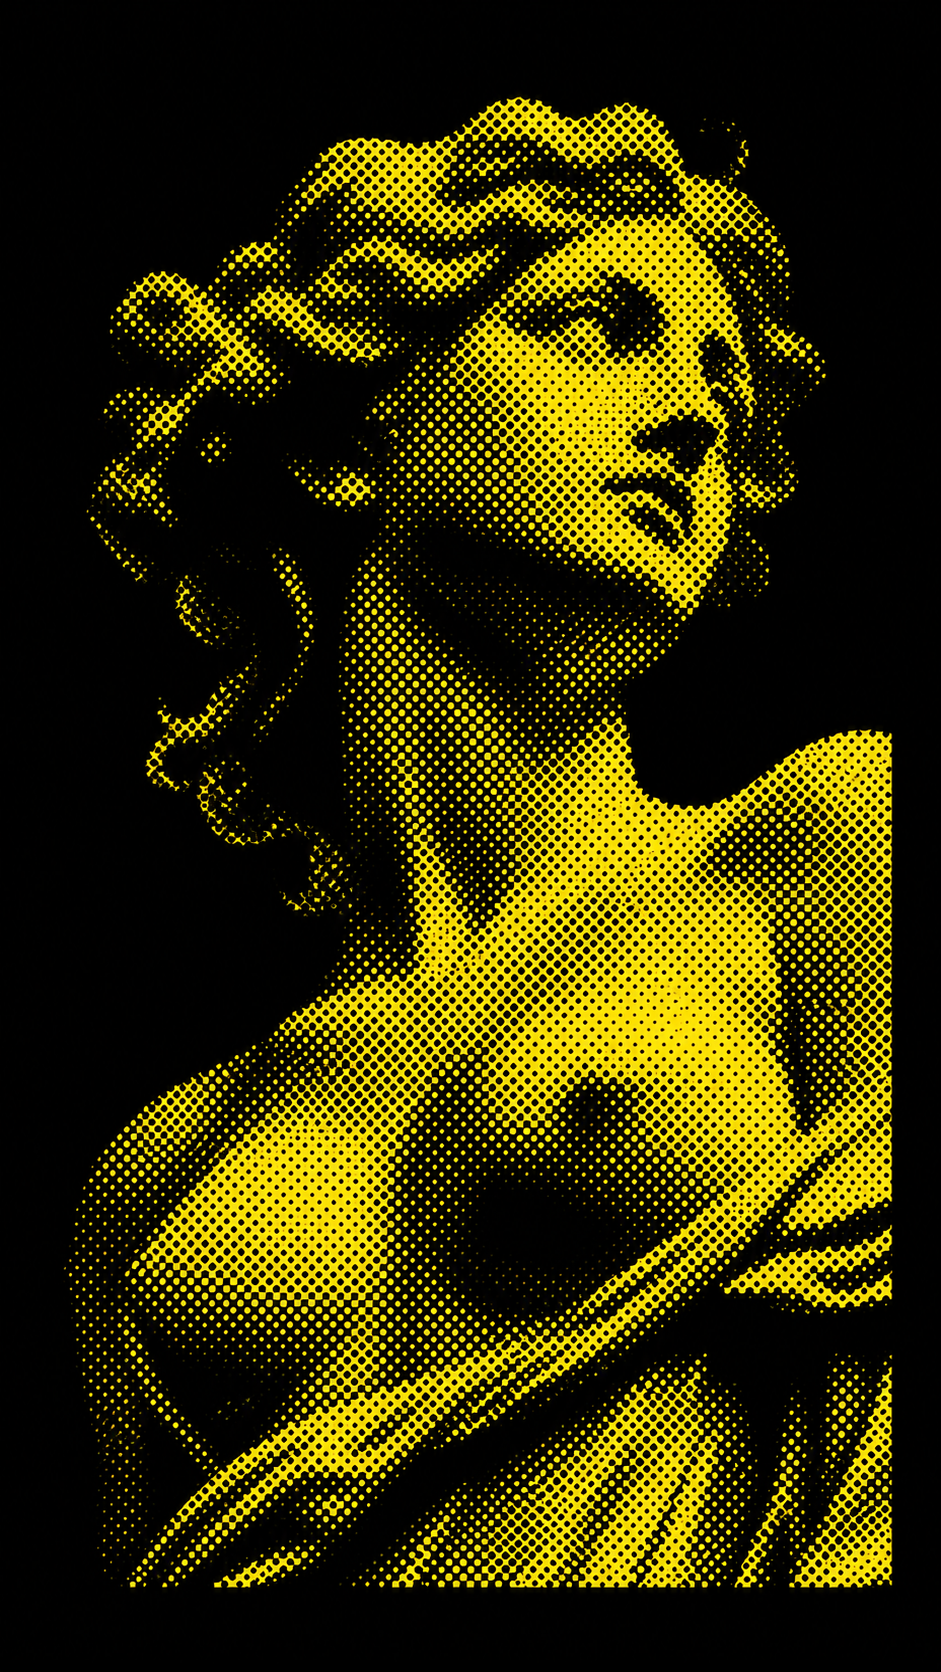
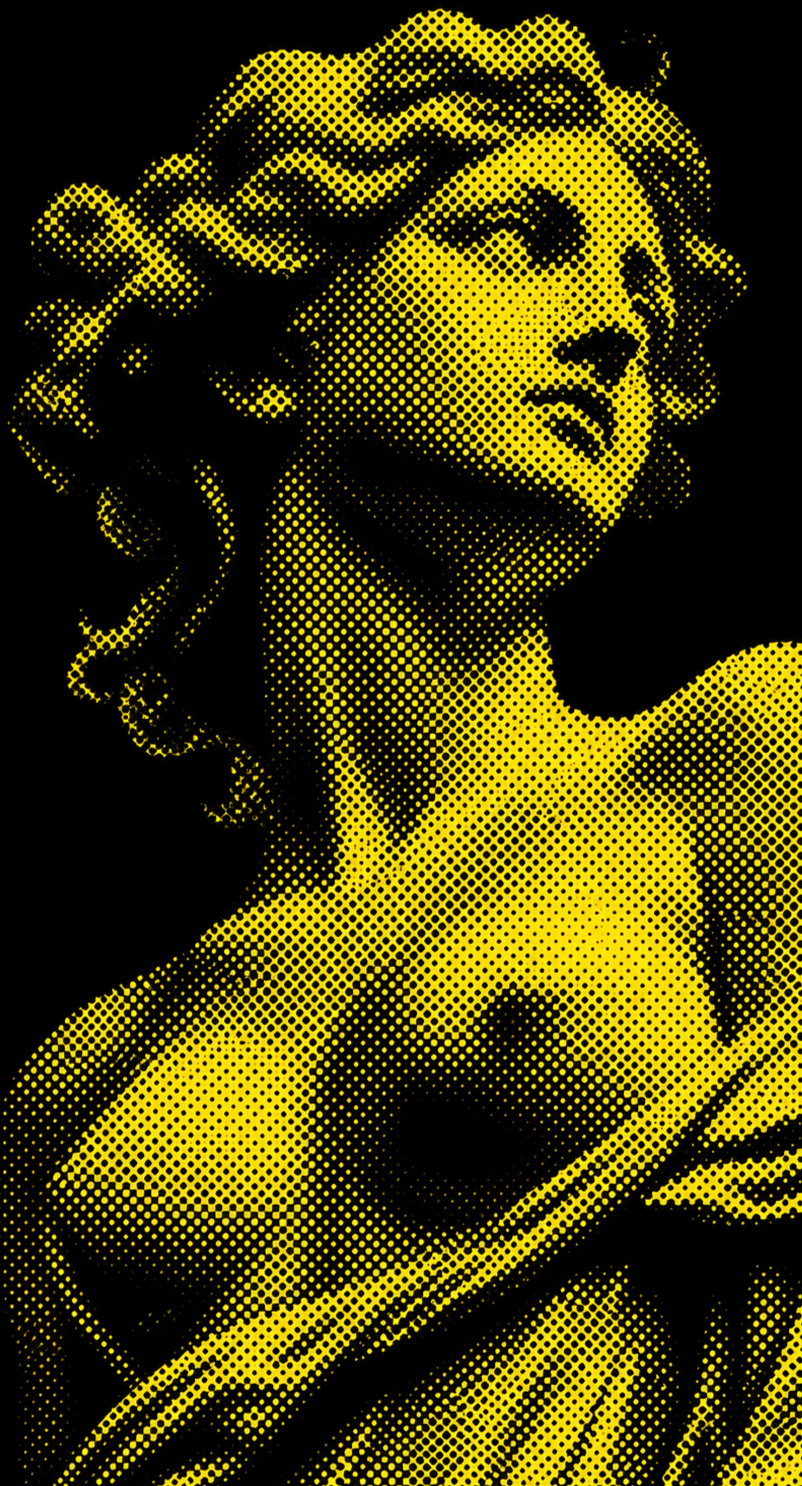
fixed line4 postioning, and other elemts adaptibiltiy to different screeens, use two section for first n secodn screen

diff --git a/style.css b/style.css
@@ -3,6 +3,7 @@ body {
     font-family: "JetBrains", monospace;
     background: #000000;
     
+    overflow-x: hidden;
     
     
 
@@ -11,8 +12,8 @@ body {
 main {
     position:relative;
     width: 100%;
-    min-height: 850px;
-    overflow: hidden;
+    
+    
     
 }
 
@@ -22,16 +23,28 @@ main {
     display: flex;
     flex-direction: row;
     gap:20px;
-    position: absolute;
-    left:20px;
-    top:35px;
+    width: fit-content;
     font-family: inherit;
     font-weight: 600;
-    z-index: 100;
+}
+   
+.first_screen {
+    position: relative;
+    width: 100%;
+    height: 100vh;
+    box-sizing: border-box;
+}
+
+.second_screen {
+    position: relative;
+    width: 100%;
+    min-height: 30vh;
+    box-sizing: border-box;
+}
     
     
 
-}
+
 .nav a{
     color:#FCEF3D;
     text-decoration: none;
@@ -42,10 +55,53 @@ main {
     color:#F15784
 }
 
+.quote {
+    position: absolute;
+    top:0vh;
+    left:50%;
+
+    
+    
+    
+    
+    
+    
+    color:#FCEF3D;
+    
+    font-size:1.2rem;
+    border-bottom: 0.15rem solid #FCEF3D;
+    width:fit-content;
+   
+    height: fit-content;
+    transform:translateX(-50%);
+    
+    
+
+    
+    
+}
+
+.socials {
+    position:absolute;
+    top:1vh;
+    right:1vw;
+    
+    
+    
+    width:fit-content;
+
+    
+    display:flex;
+    gap:1.1rem;
+    
+
+}
 
 
 .intro1 {
-    padding-left:20vw;
+    padding-left:29vw;
+    padding-top: 19vh;
+    
     
 
 
@@ -69,12 +125,6 @@ main {
     gap:5vh;
     
 
-    
-
-    
-    
-    
-    
 }
 .iam{
     font-size: 2rem;
@@ -101,7 +151,7 @@ main {
     color:#FCEF3D;
     font-size: 4rem;
     font-weight: 800;
-    line-height: 0.5;
+    line-height: 0.2;
    
 
 }
@@ -150,30 +200,34 @@ main {
     left:10px;
     top: 41%;
     
-    
+}
+.girl {
+    overflow: hidden;
+    position:absolute;
+    right: 0;
+    width: 30%;
+    height: 165vh;
+    bottom:0;
 }
 .hpgirl {
-    position:absolute;
-    right: -40px;
-    width: 400px;
-    height: auto;
-    top:190px;
-    visibility: hidden;
     
-
-
-
+    position:absolute;
+    bottom:0vh;
+    width: 100%;
+    
 }
 
 
 
 .line4{ 
-    position: absolute;
+    
     background-color: #FCEF3D;
     width:50%;
     height: 2px;
+    position:absolute;
     left:10px;
-    top: 73%;
+    bottom:0vh;
+    
 }
 
 .me-arrow {
@@ -220,20 +274,20 @@ main {
 .larp {
     position:absolute;
     color:#FCEF3D;
-    font-size: 17px;
-    bottom:145px;
+    font-size: 1rem;
+    top:1vh;
     left:10px;
     display: inline-block;
-    width: 850px;
+    width: 45%;
 }
 
 
 .og {
     position: absolute;
-    width: 150px;
+    width: 10%;
     height: auto;
 
-    bottom:0px;
+    top:10vh;
     left:50px;
     filter: brightness(120%);
     
@@ -243,10 +297,10 @@ main {
 
 .og_hover {
      position: absolute;
-    width: 150px;
+    width: 10%;
     height: auto;
 
-    bottom:0px;
+    top:10vh;
     left:50px;
     filter: brightness(120%);
 
@@ -261,40 +315,16 @@ main {
     visibility: visible;
 }
 
-.quote {
-    text-align: center;
-    
-    
-    
-    color:#FCEF3D;
-    
-    font-size:1.2rem;
-    border-bottom: 0.15rem solid #FCEF3D;
-    width:fit-content;
-    margin-left: auto;
-    margin-right: auto;
-    
 
-    
-    
-}
-.socials {
-    margin-right:2vh;
-    margin-left:auto;
-    
-    display:flex;
-    gap:1.1rem;
-    justify-self: right;
 
-}
 .ig {
     
-    width: 100%;
+    width: auto;
     height: 30px;
 }
 .linkdin {
     
-    width: 100%;
+    width: auto;
     height: 30px;
     
 }

diff --git a/index.html b/index.html
@@ -14,13 +14,7 @@
 
 </head>
 <body>
-    <div class="nav">
-
-        
-        <a href = "write.html">Blogs</a>
-        <a href = "#Projects">Projects</a>
-        
-    </div>
+     
 
 
         
@@ -28,18 +22,35 @@
 
     
     <main>
-        <div >
+        <div class="girl" >
                 <img src ="hpgirl.png" class = "hpgirl">
 
-            </div>
+         </div>
+        <section class = "first_screen">
+            <div class="socials">
+            <a href = "https://instagram.com" target="_blank"> <img src = "ig.png" class="ig"></a>
+            <a href = "https://linkedin.com" target ="blank"> <img src = "linkdin.png" class= "linkdin"></a>
+        </div>
+        <div class="quote"> 
+            <b> DON'T DIE BEFORE YOU DIE</b>
+        </div>
+    <div class="nav">
+
+        
+        <a href = "write.html">Blogs</a>
+        <a href = "#Projects">Projects</a>
+        
+    </div>
+            
          
-        <section class = "front">
-            <div class = "intro1">
-                <div class="intro">
-                <b class = "iam"> I AM </b>
-                <b class="saksham">SAKSHAM</b>
-                <b class = "prakash">PRAKASH</b> </div>
-            </div>
+            <section class = "front">
+                <div class = "intro1">
+                    <div class="intro">
+                        <b class = "iam"> I AM </b>
+                        <b class="saksham">SAKSHAM</b>
+                        <b class = "prakash">PRAKASH</b> 
+                    </div>
+                </div>
             
             
                 
@@ -63,9 +74,13 @@
             <div class="line1"></div>
             <div class="line2"></div>
             <div class="line3"></div>
-            <div class="line4"></div>
+
+            
              
         </section>
+        <div class="line4"></div>
+               
+        
         <div class="me-arrow"> 
             <b>↯ </b>
         </div>
@@ -73,26 +88,39 @@
             <b>↬</b>
         </div>
 
-        <div class="larp"> <b>Ima 17y/o normal dude! Does code ,procastinate, panic, overthink and think about eating very times in a day.
-            I will larp here later! for now take a look at my hackathon experience.</b></div>
+        </section>
+
+
+
+
+
+
+        <section class="second_screen">
+
+
+            <div class="larp"> <b>Ima 17y/o normal dude! Does code ,procastinate, panic, overthink and think about eating very times in a day.
+            I will larp here later! for now take a look at my hackathon experience.</b>
+            </div>
+
+            <div class="ogcon">
+            <div href ="google.com"><img src="overglade_hover.png" class = "og_hover"></div>
+            <div>
+            <img src= "overglade.png"class="og"></a>
+            </div>
+
+            </div>
 
 
     
         
-        <div class="quote"> 
-            <b> DON'T DIE BEFORE YOU DIE</b>
-        </div>
-        <div class="ogcon">
-            <div href ="google.com"><img src="overglade_hover.png" class = "og_hover"></div>
-            <div>
-            <img src= "overglade.png"class="og"></a>
-        </div>
+        
+        
 
-        </div>
-        <div class="socials">
-            <a href = "instagram.com"> <img src = "ig.png" class="ig"></a>
-            <a href = "linkedin.com"> <img src = "linkdin.png" class= "linkdin"></a>
-        </div>
+        </section>
+        
+
+        
+       
         
 
         
